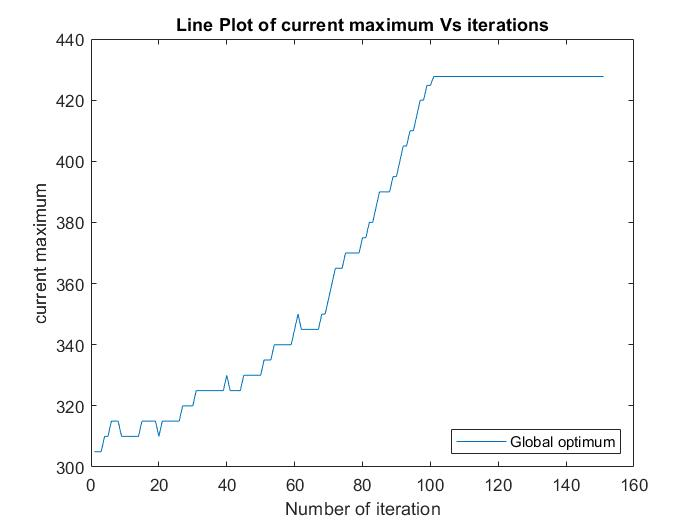
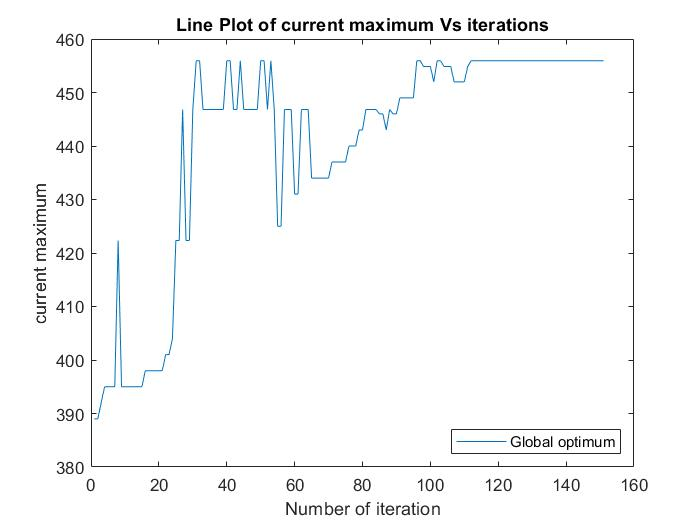
Final

diff --git a/Matlab/Firefly_algorithm_m_N.m b/Matlab/Firefly_algorithm_m_N.m
@@ -1,37 +1,41 @@
 function Firefly_algorithm_m_N(lamda,mu,c1,c2,delta,N)
     function res=Intensity(m)
-        rho=lamda/mu;
-        pi_0=1;
-        fact_k=1;
-        for j=1:m
-            pi_0=pi_0+(rho^j/fact_k);
-            fact_k=fact_k*j;
+        if m>0
+            rho=lamda/mu;
+            pi_0=1;
+            fact_k=1;
+            for j=1:m
+                pi_0=pi_0+(rho^j/fact_k);
+                fact_k=fact_k*j;
+            end
+            t1=0;
+            prod0=1;
+            for j=1:N 
+                prod0=prod0*(m+j*delta/mu);
+                t1=t1+((rho^j)/(prod0));
+            end
+            fact=fact_k;
+        %         for j=1:m
+        %             fact=fact*j;
+        %         end
+            pi_0=1/(pi_0+(rho^m)*t1/fact);
+            t2=0;
+            prod1=1;
+            for j=1:N 
+                prod1=prod1*(m+j*delta/mu);
+                t2=t2+(j*(rho^j)/(prod1));
+            end
+            pi_w=delta*(rho^m)*t2*pi_0/(lamda*fact);
+            prod2=1;
+            for j=1:N
+                prod2=prod2*(m+j*delta/mu);
+            end
+            pi_mn=rho^(m+N)*pi_0/(fact*prod2);
+            pi_l= pi_mn*pi_w;
+            res=c1*lamda*(1-pi_l)-c2*(m+N);
+        else
+            res=0;
         end
-        t1=0;
-        prod0=1;
-        for j=1:N+m
-            prod0=prod0*(m+j*delta/mu);
-            t1=t1+((rho^j)/(prod0));
-        end
-        fact=fact_k;
-%         for j=1:m
-%             fact=fact*j;
-%         end
-        pi_0=1/(pi_0+(rho^m)*t1/fact);
-        t2=0;
-        prod1=1;
-        for j=1:N+m
-            prod1=prod1*(m+j*delta/mu);
-            t2=t2+(j*(rho^j)/(prod1));
-        end
-        pi_w=delta*(rho^m)*t2*pi_0/(lamda*fact);
-        prod2=1;
-        for j=1:N
-            prod2=prod2*(m+j*delta/mu);
-        end
-        pi_mn=rho^(m+N)*pi_0/(fact*prod2);
-        pi_l= pi_mn*pi_w;
-        res=c1*lamda*(1-pi_l)-c2*(m+N);
     end
     n=40;
     lb=0;

diff --git a/Matlab/plot_check.m b/Matlab/plot_check.m
@@ -1,0 +1,47 @@
+function plot_check(lamda,mu,c1,c2,delta,N)
+function res=Intensity(m)
+        if m>0
+            rho=lamda/mu;
+            pi_0=1;
+            fact_k=1;
+            for j=1:m
+                pi_0=pi_0+(rho^j/fact_k);
+                fact_k=fact_k*j;
+            end
+            t1=0;
+            prod0=1;
+            for j=1:N % change
+                prod0=prod0*(m+j*delta/mu);
+                t1=t1+((rho^j)/(prod0));
+            end
+            fact=fact_k;
+        %         for j=1:m
+        %             fact=fact*j;
+        %         end
+            pi_0=1/(pi_0+(rho^m)*t1/fact);
+            t2=0;
+            prod1=1;
+            for j=1:N % change
+                prod1=prod1*(m+j*delta/mu);
+                t2=t2+(j*(rho^j)/(prod1));
+            end
+            pi_w=delta*(rho^m)*t2*pi_0/(lamda*fact);
+            prod2=1;
+            for j=1:N
+                prod2=prod2*(m+j*delta/mu);
+            end
+            pi_mn=rho^(m+N)*pi_0/(fact*prod2);
+            pi_l= pi_mn*pi_w;
+            res=c1*lamda*(1-pi_l)-c2*(m+N);
+        else
+            res=0;
+        end
+end
+r=[1:1:50];
+y=zeros(50,1);
+for ii=1:50
+    y(ii)=Intensity(r(ii));
+end
+max(y)
+plot(r,y)
+end
